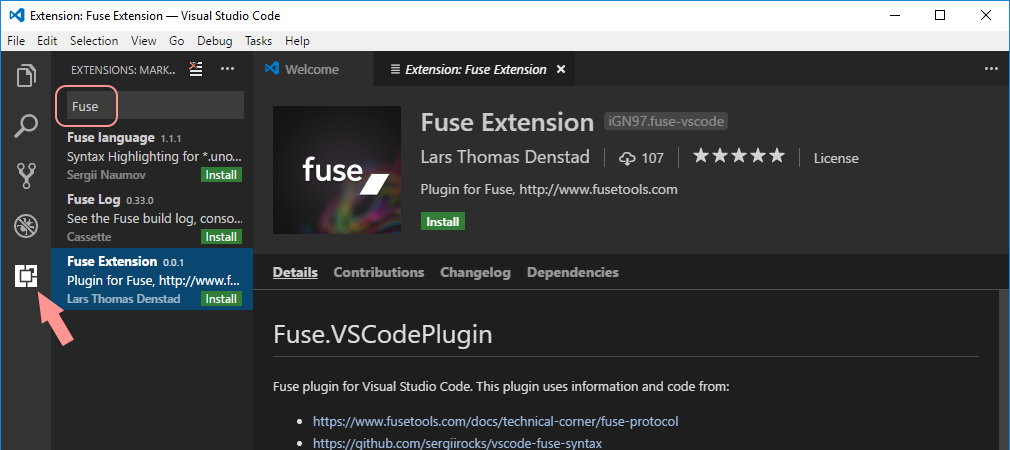
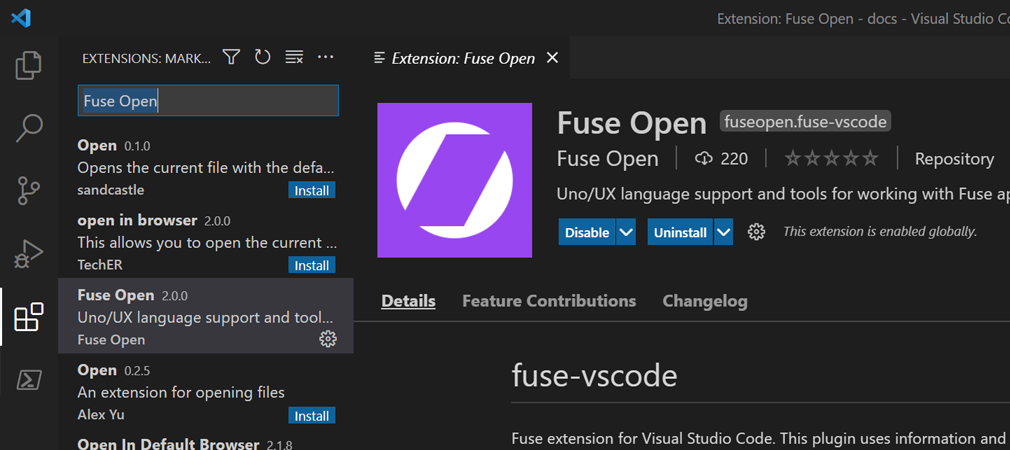
Visual Studio Code extension installation
This updates information and screenshot on the Visual Studio Code
extension installation page.

Also moving this page to a new URL: vscode-extension
(Old links still working.)

diff --git a/articles/basics/installation/vscode-extension.md b/articles/basics/installation/vscode-extension.md
@@ -1,0 +1,35 @@
+# Visual Studio Code extension installation
+
+<blockquote class="callout-info">
+
+We also provide plugins for [Atom](atom-plugin.md) and [Sublime Text 3](sublime-plugin.md).
+
+</blockquote>
+
+<blockquote class="callout-info">
+
+The source code for this extension can be found on [GitHub](https://github.com/fuse-open/vscode-extension).
+
+</blockquote>
+
+<blockquote class="callout-info">
+
+Please report any [issues](https://github.com/fuse-open/vscode-extension/issues) 🙂
+
+</blockquote>
+
+## From Visual Studio Code
+
+The **Fuse Open** extension can be installed from the **Extensions** tab:
+
+![vs code installation](../../../media/installation_quickstart/installing_vs_code_plugin.png)
+
+## From the command line
+
+Run the following command:
+
+```s
+fuse install vscode-extension
+```
+
+That's it! You're now ready to start using Visual Studio Code with Fuse.

diff --git a/articles/basics/installation/visual-studio-code-plugin.md b/articles/basics/installation/visual-studio-code-plugin.md
@@ -1,11 +1,5 @@
-# Visual Studio Code plugin installation
+# Visual Studio Code extension installation
 
-<blockquote class="callout-info">
+This page has [moved](vscode-extension.md).
 
-We also provide a [plugin for Atom](atom-plugin.md) and [Sublime Text 3](sublime-plugin.md).
-
-</blockquote>
-
-The Visual Studio Code plugin can be installed directly from the extensions tab:
-
-![vs code installation](../../../media/installation_quickstart/installing_vs_code_plugin.png)
+<meta http-equiv="refresh" content="0; URL=vscode-extension.html" />

diff --git a/articles/basics/installation-and-quickstart.md b/articles/basics/installation-and-quickstart.md
@@ -50,7 +50,7 @@ We currently provide plugins for the following text editors:
   <tbody>
     <tr>
       <td><a href="https://code.visualstudio.com/">Visual Studio Code</a></td>
-      <td><a href="articles:basics/installation/visual-studio-code-plugin.md">link</a></td>
+      <td><a href="articles:basics/installation/vscode-extension.md">link</a></td>
       <td><a href="https://marketplace.visualstudio.com/items?itemName=fuseopen.fuse-vscode">link</a></td>
     </tr>
     <tr>

diff --git a/articles/basics/installation/atom-plugin.md b/articles/basics/installation/atom-plugin.md
@@ -2,7 +2,7 @@
 
 <blockquote class="callout-info">
 
-*Note:* We also provide a [plugin for Sublime Text 3](sublime-plugin.md) and [Visual Studo Code](visual-studio-code-plugin.md).
+*Note:* We also provide a [plugin for Sublime Text 3](sublime-plugin.md) and [Visual Studo Code](vscode-extension.md).
 
 </blockquote>
 

diff --git a/articles/basics/installation/sublime-plugin.md b/articles/basics/installation/sublime-plugin.md
@@ -2,7 +2,7 @@
 
 <blockquote class="callout-info">
 
-*Note:* We also provide a [plugin for Atom](atom-plugin.md) and [Visual Studo Code](visual-studio-code-plugin.md).
+*Note:* We also provide a [plugin for Atom](atom-plugin.md) and [Visual Studo Code](vscode-extension.md).
 
 </blockquote>
 
